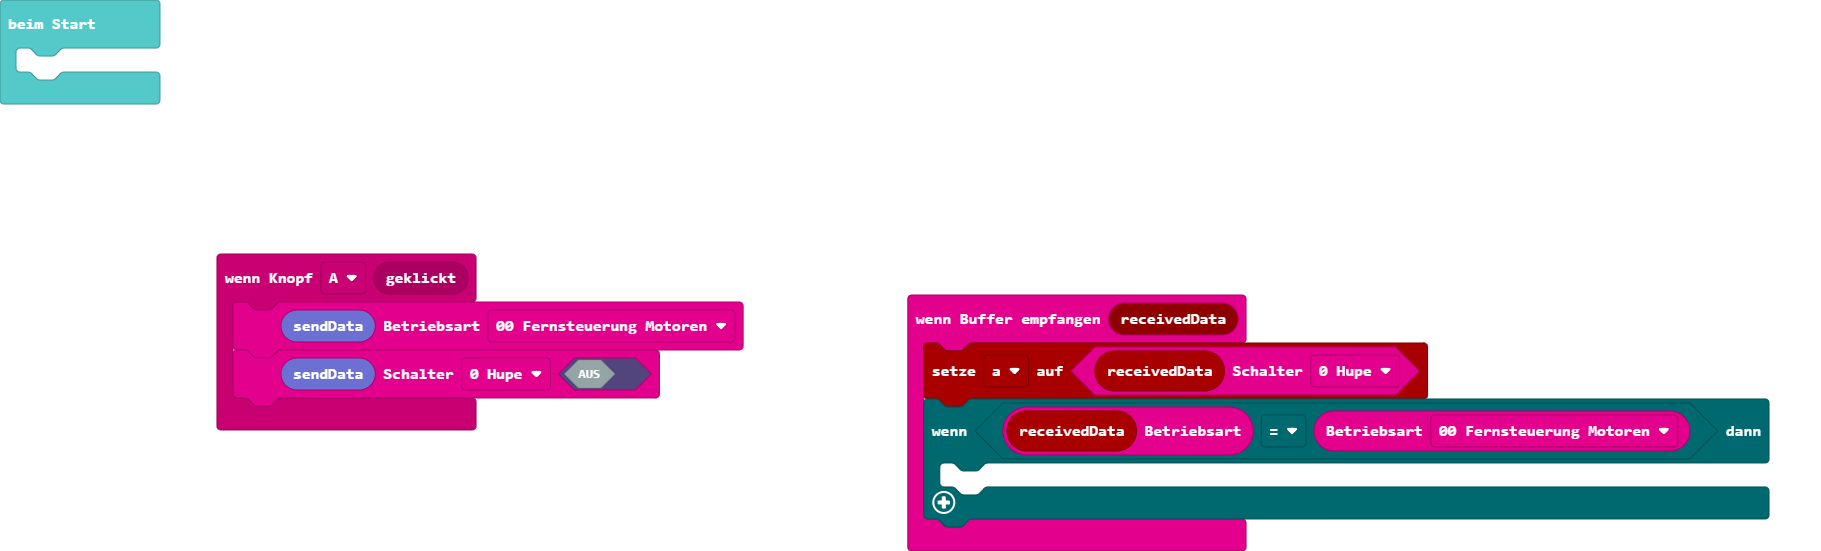
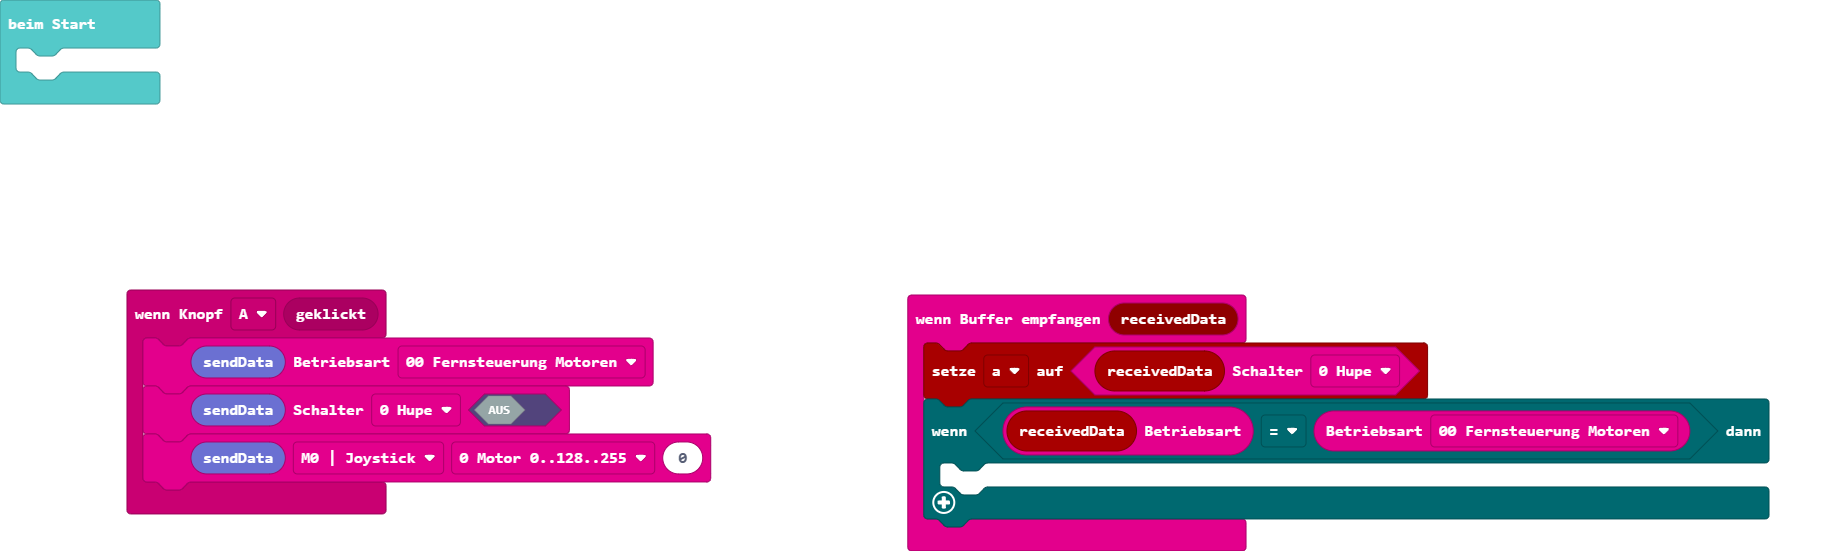
Aktualisiere main.blocks, main.ts, datenpaket.ts

Changed region(s): [[0.0615, 0.4319, 0.4305, 0.9564]]

diff --git a/datenpaket.ts b/datenpaket.ts
@@ -15,27 +15,33 @@ für CalliBot, MakerKitCar, CaR4
 
     // ========== Buffer offset
 
+    //% group="Enums" advanced=true
+    //% block="%bufferpointer" weight=8
+    export function radio_bufferpointer(bufferpointer: eBufferPointer) { return bufferpointer }
     export enum eBufferPointer {
-        //% block="M0 1-2-3 Fernsteuerung"
+        //% block="M0 | Joystick"
         p0 = 1,
-        //% block="M1 4-5-6 Ultraschall"
+        //% block="M1 | 1. Strecke | Ultraschall"
         p1 = 4,
-        //% block="MA 7-8-9 hell hell"
+        //% block="MA | 2. Strecke | Spur 00"
         p2 = 7,
-        //% block="MB 10-11-12 hell dunkel"
+        //% block="MB | 3. Strecke | Spur 01"
         p3 = 10,
-        //% block="MC 13-14-15 dunkel hell"
+        //% block="MC | 4. Strecke | Spur 10"
         p4 = 13,
-        //% block="MD 16-17-18 dunkel dunkel"
+        //% block="MD | 5. Strecke | Spur 11"
         p5 = 16
     }
 
+    //% group="Enums" advanced=true
+    //% block="%bufferoffset" weight=7
+    export function radio_bufferoffset(bufferoffset: eBufferOffset) { return bufferoffset }
     export enum eBufferOffset { // 3 Byte (b0-b1-b2) ab n_BufferPointer
         //% block="0 Motor 0..128..255"
         b0_Motor = 0, // 0..128..255
-        //% block="1 Servo 0..16..31"
+        //% block="1 Servo 1..16..31"
         b1_Servo = 1, // Bit 4-0 (0..31)
-        //% block="2 Fahrstrecke 0..255 cm"
+        //% block="2 Entfernung 0..255 cm"
         b2_Fahrstrecke = 2, // Encoder in cm max. 255cm
         // b1_3Bit = 3 // Bit 7-6-5
     }
@@ -94,7 +100,7 @@ für CalliBot, MakerKitCar, CaR4
     // ========== Steuer-Byte 3
 
     //% group="Enums" advanced=true
-    //% block="Steuer Byte 3 %motorbit" weight=4
+    //% block="aktiviert %motorbit" weight=4
     export function radio_motorbit(motorbit: e3MotorBit) { return motorbit }
     export enum e3MotorBit {
         //% block="M0 | Joystick"
@@ -115,10 +121,13 @@ für CalliBot, MakerKitCar, CaR4
         mab = ma + mb,
         //% block="MC & MD (0x30)"
         mcd = mc + md,
-        //% block="alle (0x3F)"
+        //% block="alle 6 Bit (0x3F)"
         m01abcd = m01 + mab + mcd
     }
 
+    //% group="Enums" advanced=true
+    //% block="Entfernung %entfernung" weight=3
+    export function radio_entfernung(entfernung: e3Entfernung) { return entfernung }
     export enum e3Entfernung {
         //% block="5 cm"
         u0 = 0x00,
@@ -191,7 +200,7 @@ für CalliBot, MakerKitCar, CaR4
 
 
     //% group="Datenpaket zum Senden vorbereiten" subcategory="Datenpaket"
-    //% block="Buffer[3] %buffer Ultraschall Entfernung %entfernung" weight=3
+    //% block="%buffer Ultraschall Entfernung %entfernung" weight=3
     //% buffer.shadow="radio_sendBuffer19"
     export function setEntfernung(buffer: Buffer, entfernung: e3Entfernung) {
         buffer[eBufferPointer.p0 + eBufferOffset.b2_Fahrstrecke] &= 0b00111111 // AND Bit 5-4-3-2-1-0 bleiben; 7-6 auf 0 setzen
@@ -199,7 +208,7 @@ für CalliBot, MakerKitCar, CaR4
     }
 
     //% group="Datenpaket auslesen (receivedData oder sendData)" subcategory="Datenpaket"
-    //% block="Buffer[3] %buffer Ultraschall Entfernung" weight=3
+    //% block="%buffer Ultraschall Entfernung" weight=3
     export function getEntfernung(buffer: Buffer): e3Entfernung {
         return (buffer[eBufferPointer.p0 + eBufferOffset.b2_Fahrstrecke] & 0b11000000)
     }
@@ -209,11 +218,11 @@ für CalliBot, MakerKitCar, CaR4
     // ========== 3 Byte (Motor, Servo, Entfernung)
 
     //% group="Datenpaket zum Senden vorbereiten" subcategory="Datenpaket"
-    //% block="Buffer %buffer set Byte %bufferOffset %byte || %bufferPointer" weight=2
+    //% block="%buffer %bufferPointer %bufferOffset %byte" weight=2
     //% buffer.shadow="radio_sendBuffer19"
     //% byte.min=0 byte.max=255
     //% inlineInputMode=inline 
-    export function setByte(buffer: Buffer, bufferOffset: eBufferOffset, byte: number, bufferPointer?: eBufferPointer) {
+    export function setByte(buffer: Buffer, bufferPointer: eBufferPointer, bufferOffset: eBufferOffset, byte: number) {
         if (!bufferPointer) bufferPointer = eBufferPointer.p0  // wenn nicht angegeben
 
         if (bufferOffset == eBufferOffset.b1_Servo) {

diff --git a/main.ts b/main.ts
@@ -2,6 +2,7 @@ let a = false
 input.onButtonEvent(Button.A, input.buttonEventClick(), function () {
     radio.setBetriebsart(radio.radio_sendBuffer19(), radio.e0Betriebsart.p0)
     radio.setSchalter(radio.radio_sendBuffer19(), radio.e0Schalter.b0, false)
+    radio.setByte(radio.radio_sendBuffer19(), radio.eBufferPointer.p0, radio.eBufferOffset.b0_Motor, 0)
 })
 radio.onReceivedData(function (receivedData) {
     a = radio.getSchalter(receivedData, radio.e0Schalter.b0)
